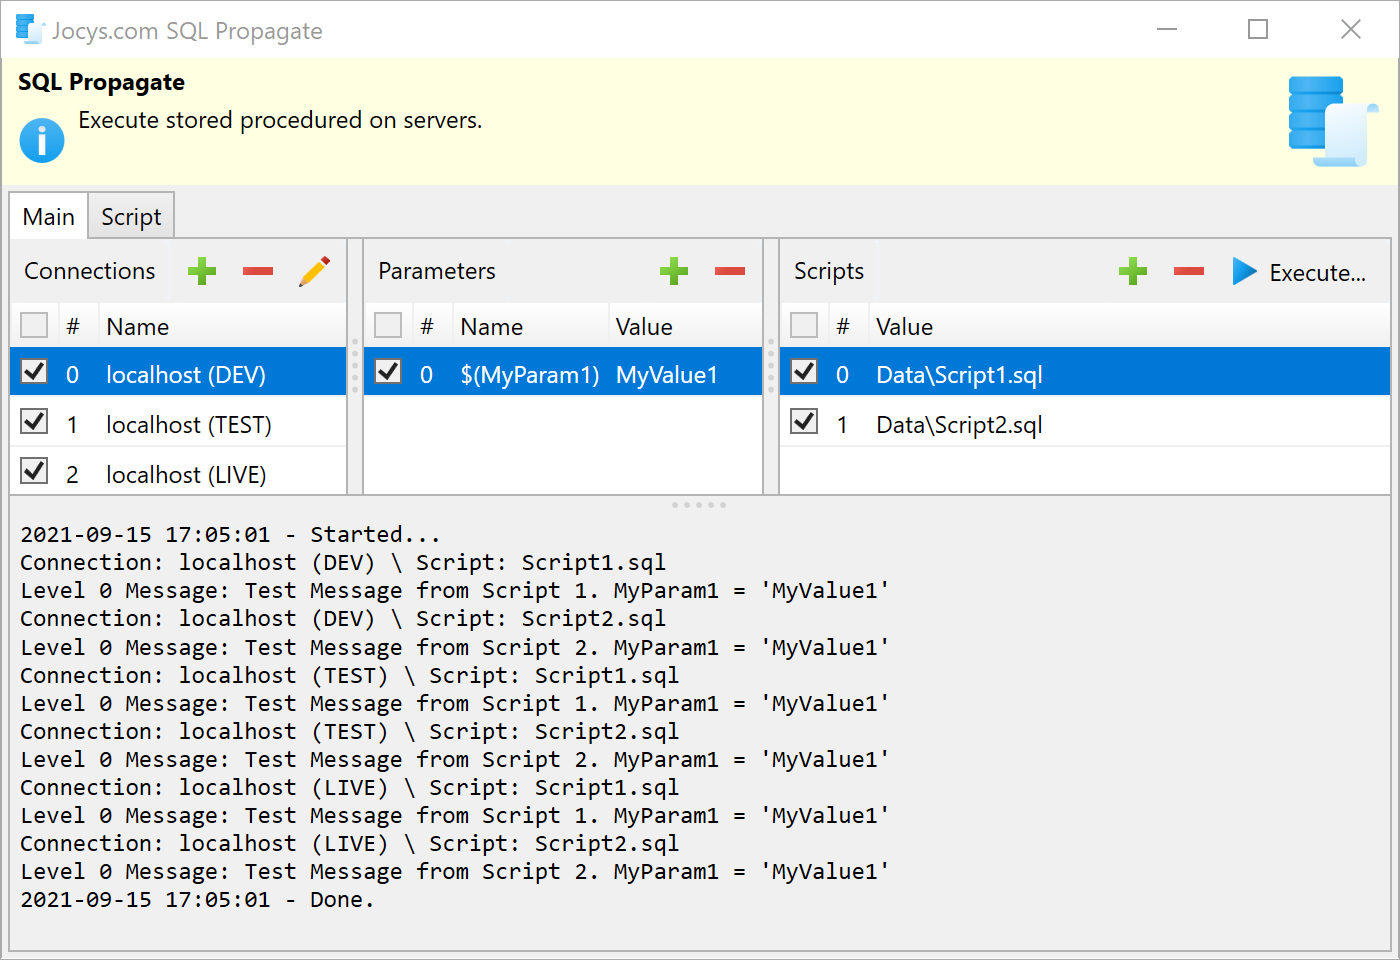
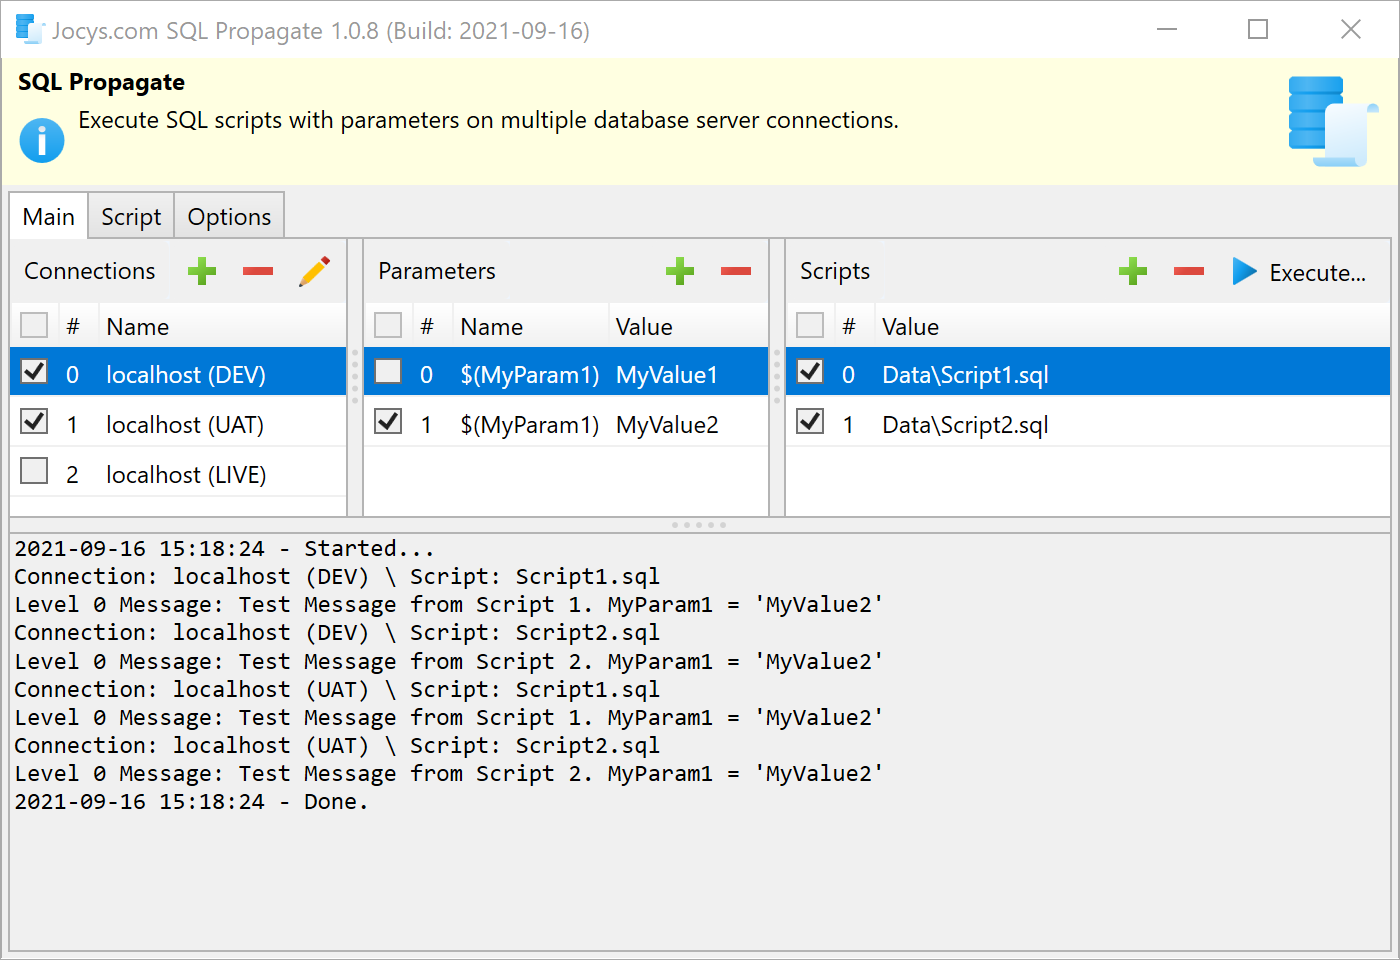
Parameter code updates.

diff --git a/SqlPropagate/MainWindow.xaml b/SqlPropagate/MainWindow.xaml
@@ -286,7 +286,7 @@
 					<Grid.RowDefinitions>
 						<RowDefinition Height="Auto" />
 						<RowDefinition Height="Auto" />
-						<RowDefinition Height="Auto" />
+						<RowDefinition Height="*" />
 					</Grid.RowDefinitions>
 					<Grid.ColumnDefinitions>
 						<ColumnDefinition Width="Auto" />
@@ -331,7 +331,7 @@
 						Grid.Row="2"
 						Grid.Column="1"
 						HorizontalAlignment="Stretch"
-						VerticalAlignment="Center"
+						VerticalAlignment="Stretch"
 						VerticalContentAlignment="Top"
 						MinLines="4"
 						Text="{Binding LogsBodyText, Source={x:Static local:Global.AppSettings}, UpdateSourceTrigger=PropertyChanged}" />

diff --git a/SqlPropagate/MainWindow.xaml.cs b/SqlPropagate/MainWindow.xaml.cs
@@ -28,17 +28,7 @@ namespace JocysCom.Sql.Propagate
 				Global.AppData.Save();
 			}
 			if (Global.AppSettings.Parameters.Count == 0)
-			{
-				var newItem = new DataItem()
-				{
-					Name = "$(MyParam1)",
-					Value = "MyValue1",
-					IsChecked = true,
-					IsEnabled = true,
-				};
-				Global.AppSettings.Parameters.Add(newItem);
-				newItem.Order = Global.AppSettings.Parameters.IndexOf(newItem);
-			}
+				AddParameter("$(MyParam1)", "MyValue1");
 			InitializeComponent();
 			var assembly = Assembly.GetExecutingAssembly();
 			HMan = new BaseWithHeaderManager<int>(HelpHeadLabel, HelpBodyLabel, LeftIcon, RightIcon, this);
@@ -125,9 +115,18 @@ namespace JocysCom.Sql.Propagate
 
 		private void ParametersPanel_AddButton_Click(object sender, RoutedEventArgs e)
 		{
-			var item = new DataItem();
-			item.IsEnabled = true;
-			Global.AppSettings.Parameters.Add(item);
+			AddParameter();
+		}
+
+		void AddParameter(string name = "", string value = "", bool isChecked = false)
+		{
+			var newItem = new DataItem();
+			newItem.Name = name;
+			newItem.Value = value;
+			newItem.IsChecked = isChecked;
+			newItem.IsEnabled = true;
+			Global.AppSettings.Parameters.Add(newItem);
+			newItem.Order = Global.AppSettings.Parameters.IndexOf(newItem);
 		}
 
 		#endregion
@@ -234,8 +233,9 @@ namespace JocysCom.Sql.Propagate
 				}
 			}
 			var connectionsText = $"{connections.Count} connection" + (connections.Count > 1 ? "s" : "");
+			var parametersText = $"{parameters.Count} parameter" + (parameters.Count > 1 ? "s" : "");
 			var scriptsText = $"{scripts.Count} script" + (scripts.Count > 1 ? "s" : "");
-			var message = $"Execute {scriptsText} on {connectionsText}?";
+			var message = $"Execute {scriptsText} with {parametersText} on {connectionsText}?";
 			var result = form.ShowDialog(message, "Execute", MessageBoxButton.OKCancel, MessageBoxImage.Question);
 			if (result != MessageBoxResult.OK)
 				return;

diff --git a/SqlPropagate/Properties/AssemblyInfo.cs b/SqlPropagate/Properties/AssemblyInfo.cs
@@ -8,7 +8,7 @@ using System.Windows;
 // set of attributes. Change these attribute values to modify the information
 // associated with an assembly.
 [assembly: AssemblyTitle("Jocys.com SQL Propagate")]
-[assembly: AssemblyDescription("Execute SQL scripts with parameters on multiple database servers.")]
+[assembly: AssemblyDescription("Execute SQL scripts with parameters on multiple database server connections.")]
 [assembly: AssemblyConfiguration("")]
 [assembly: AssemblyCompany("Jocys.com")]
 [assembly: AssemblyProduct("SQL Propagate")]
@@ -51,5 +51,5 @@ using System.Windows;
 // You can specify all the values or you can default the Build and Revision Numbers
 // by using the '*' as shown below:
 // [assembly: AssemblyVersion("1.0.*")]
-[assembly: AssemblyVersion("1.0.7.0")]
-[assembly: AssemblyFileVersion("1.0.7.0")]
+[assembly: AssemblyVersion("1.0.8.0")]
+[assembly: AssemblyFileVersion("1.0.8.0")]

diff --git a/README.md b/README.md
@@ -1,10 +1,10 @@
 # Jocys.com SQL Propagate
 
-Execute SQL scripts with parameters on multiple database servers. Tool is customisable and can be tailored to specific tasks. You can change title header, body and initial log panel text to provide help and instructions. 
+Execute SQL scripts with parameters on multiple database server connections. Tool is customisable and can be tailored to specific tasks. You can change title header, body and initial log panel text to provide help and instructions. 
 
 # Download
 
-Digitally Signed Application v1.0.7.0 (2021-09-16)
+Digitally Signed Application v1.0.8.0 (2021-09-16)
 
 [Download - JocysCom.Sql.Propagate.zip](https://github.com/JocysCom/SqlPropagate/releases/download/1.0.0.0/JocysCom.Sql.Propagate.zip) - for All games
 
@@ -19,6 +19,7 @@ Program settings are automatically created with the same name as executable, but
 ### Main Program
 
 You can edit order (#) of execution, choose connections, parameters and scripts to use by simply checking or unchecking items.
+Execution of 2 scripts with 1 parameter on 2 connections:
 
 <img alt="Main From" src="SqlPropagate/Documents/Images/JocysComSqlPropagate.png" width="700" height="480">
 
